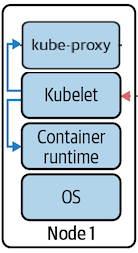
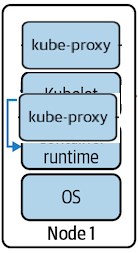
update images

Changed region(s): [[0.029, 0.1383, 0.9565, 0.581], [0.9855, 0.3597, 1.0, 0.3874], [0.1449, 0.3043, 0.1739, 0.332]]

diff --git a/docs/index.html b/docs/index.html
@@ -47,7 +47,7 @@
 <p><img src="/k8s-networking/images/data_flow.png" alt=""></p>
 </section><section>
 <h2 id="kubernetes-node">Kubernetes Node</h2>
-<p><img src="/k8s-networking/images/data_flow_single_node.png" alt=""></p>
+<p><img src="/k8s-networking/images/networking-node.png" alt=""></p>
 
 
 
@@ -57,28 +57,52 @@
 <h3 id="container-network-interface">Container Network Interface</h3>
 <p><img src="/k8s-networking/images/cni.png" alt=""></p>
 <p><a href="https://github.com/containernetworking/cni">https://github.com/containernetworking/cni</a></p>
+
+
+
+<aside class="notes"><p>1 .When the container runtime expects to perform network operations on a container,
+it (like the kubelet in the case of K8s) calls the CNI plugin with the desired command.
+2. The container runtime also provides related network configuration and container-specific data to the plugin.
+3. The CNI plugin performs the required operations and reports the result.</p>
+</aside>
 </section><section>
 <h1 id="container">Container</h1>
 <p><img src="/k8s-networking/images/node_namespaces_to_container.png" alt=""></p>
 </section><section>
 <h3 id="container-networking">Container Networking</h3>
 <p><img src="/k8s-networking/images/node_network_namespace_container.png" alt=""></p>
-<div class="highlight"><pre tabindex="0" style="color:#f8f8f2;background-color:#272822;-moz-tab-size:4;-o-tab-size:4;tab-size:4"><code class="nohighlight" data-noescape>kubectl apply -f pod.yml
-</code></pre></div><div class="highlight"><pre tabindex="0" style="color:#f8f8f2;background-color:#272822;-moz-tab-size:4;-o-tab-size:4;tab-size:4"><code class="nohighlight" data-noescape>kubectl exec -it bb1 -c bb1 -- curl localhost:80
-</code></pre></div></section><section>
+</section><section>
 <h3 id="pod-to-pod">Pod to Pod</h3>
 <p><img src="/k8s-networking/images/node_namespaces_multi_pod.png" alt=""></p>
-<div class="highlight"><pre tabindex="0" style="color:#f8f8f2;background-color:#272822;-moz-tab-size:4;-o-tab-size:4;tab-size:4"><code class="nohighlight" data-noescape>kubectl get pods -o wide
-</code></pre></div><div class="highlight"><pre tabindex="0" style="color:#f8f8f2;background-color:#272822;-moz-tab-size:4;-o-tab-size:4;tab-size:4"><code class="nohighlight" data-noescape>kubectl exec -it bb1 -c bb1 -- ping <span style="color:#66d9ef">$(</span>kubectl get pods bb3 -o json | jq .status.podIP -r<span style="color:#66d9ef">)</span>
-</code></pre></div></section><section>
+</section><section>
+<h1 id="pod-networking-demo">Pod Networking Demo</h1>
+</section><section>
 <h3 id="kubernetes-dns">Kubernetes DNS</h3>
 <p><img src="/k8s-networking/images/coredns.png" alt=""></p>
+<p><a href="https://coredns.io/">https://coredns.io/</a></p>
 </section><section>
+<h3 id="kubernetes-dns-1">Kubernetes DNS</h3>
+<div class="highlight"><pre tabindex="0" style="color:#f8f8f2;background-color:#272822;-moz-tab-size:4;-o-tab-size:4;tab-size:4"><code class="nohighlight" data-noescape>kubectl exec -it dnsutils -- host -v -t a github.com
+Trying <span style="color:#e6db74">&#34;github.com.default.svc.cluster.local&#34;</span>
+Trying <span style="color:#e6db74">&#34;github.com.svc.cluster.local&#34;</span>
+Trying <span style="color:#e6db74">&#34;github.com.cluster.local&#34;</span>
+Trying <span style="color:#e6db74">&#34;github.com&#34;</span>
+;; -&gt;&gt;HEADER<span style="color:#e6db74">&lt;&lt;- opco</span>de: QUERY, status: NOERROR, id: <span style="color:#ae81ff">9135</span>
+;; flags: qr rd ra; QUERY: 1, ANSWER: 1, AUTHORITY: 0, ADDITIONAL: <span style="color:#ae81ff">0</span>
+
+;; QUESTION SECTION:
+;github.com.                    IN      A
+
+;; ANSWER SECTION:
+github.com.             <span style="color:#ae81ff">30</span>      IN      A       140.82.113.4
+</code></pre></div></section><section>
 <h1 id="services">Services</h1>
 <ul>
 <li>NodePort</li>
 <li>ClusterIP - Default</li>
 <li>LoadBalancer</li>
+<li>ExternalName</li>
+<li>Headless</li>
 </ul>
 
 
@@ -93,8 +117,9 @@ NodePort and ClusterIP Services, to which the external load balancer routes, are
 </section><section>
 <h3 id="service-to-pod">Service to Pod</h3>
 <p><img src="/k8s-networking/images/service.png" alt=""></p>
-<div class="highlight"><pre tabindex="0" style="color:#f8f8f2;background-color:#272822;-moz-tab-size:4;-o-tab-size:4;tab-size:4"><code class="nohighlight" data-noescape>kubectl apply -f service-clusterip.yml
-</code></pre></div></section><section>
+</section><section>
+<h1 id="services-demo">Services Demo</h1>
+</section><section>
 <h1 id="external-to-cluster">External to Cluster</h1>
 <ul>
 <li>Service Type Loadbalancer</li>
@@ -103,8 +128,7 @@ NodePort and ClusterIP Services, to which the external load balancer routes, are
 </section><section>
 <h4 id="service-type-loadbalancer">Service Type LoadBalancer</h4>
 <p><img src="/k8s-networking/images/service_loadbalancer.png" alt=""></p>
-<div class="highlight"><pre tabindex="0" style="color:#f8f8f2;background-color:#272822;-moz-tab-size:4;-o-tab-size:4;tab-size:4"><code class="nohighlight" data-noescape>kubectl apply -f service-loadbalancer.yml
-</code></pre></div></section><section>
+</section><section>
 <h1 id="ingress">Ingress</h1>
 <ul>
 <li>Ingress Controller</li>
@@ -117,8 +141,8 @@ NodePort and ClusterIP Services, to which the external load balancer routes, are
 <li>Google Cloud Loadbalancer</li>
 <li>Contour</li>
 <li>Kong</li>
+<li>Lots more <a href="https://kubernetes.io/docs/concepts/services-networking/ingress-controllers/">https://kubernetes.io/docs/concepts/services-networking/ingress-controllers/</a></li>
 </ul>
-<p>Lots more <a href="https://kubernetes.io/docs/concepts/services-networking/ingress-controllers/">https://kubernetes.io/docs/concepts/services-networking/ingress-controllers/</a></p>
 </section><section>
 <h4 id="ingress-controller-1">Ingress Controller</h4>
 <p><img src="/k8s-networking/images/ingress_cloud.png" alt=""></p>
@@ -139,9 +163,18 @@ NodePort and ClusterIP Services, to which the external load balancer routes, are
                 <span style="color:#f92672">name</span>: <span style="color:#ae81ff">my-service</span>
                 <span style="color:#f92672">port</span>:
                   <span style="color:#f92672">number</span>: <span style="color:#ae81ff">8080</span>
-</code></pre></div><div class="highlight"><pre tabindex="0" style="color:#f8f8f2;background-color:#272822;-moz-tab-size:4;-o-tab-size:4;tab-size:4"><code class="nohighlight" data-noescape>kubectl apply -f ingress.yml
 </code></pre></div></section><section>
-<h1 id="troubleshooting">Troubleshooting</h1>
+<h1 id="loadbalancer-and-ingress-demo">Loadbalancer and Ingress Demo</h1>
+</section><section>
+<h3 id="troubleshooting">Troubleshooting</h3>
+<p><img src="/k8s-networking/images/4c.png" alt=""></p>
+<ul>
+<li><a href="https://hub.docker.com/r/nicolaka/netshoot">NetShoot image</a></li>
+<li>Remove label from service endpoint</li>
+<li>Check Ports match</li>
+<li>Check Probes</li>
+<li><a href="https://kubernetes.io/docs/concepts/security/overview/">CCCC check</a></li>
+</ul>
 </section><section>
 <h3 id="network-policy">Network Policy</h3>
 <div class="highlight"><pre tabindex="0" style="color:#f8f8f2;background-color:#272822;-moz-tab-size:4;-o-tab-size:4;tab-size:4"><code class="nohighlight" data-noescape><span style="color:#f92672">apiVersion</span>: <span style="color:#ae81ff">networking.k8s.io/v1</span>
@@ -168,11 +201,8 @@ NodePort and ClusterIP Services, to which the external load balancer routes, are
 <ul>
 <li><a href="https://github.com/nleiva/kubernetes-networking-links">Kubernetes Networking Links</a></li>
 <li><a href="https://kubernetes.io/docs/tasks/access-application-cluster/">Kubernetes Services Tutorials</a></li>
-<li><a href="https://kubernetes.io/docs/concepts/configuration/overview/#services">K8s Services</a>
-<ul>
+<li><a href="https://kubernetes.io/docs/concepts/configuration/overview/#services">K8s Services</a></li>
 <li><a href="https://kubernetes.io/docs/tasks/access-application-cluster/create-external-load-balancer/">K8s Loadbalancer</a></li>
-</ul>
-</li>
 <li><a href="https://kubernetes.io/docs/tasks/access-application-cluster/create-external-load-balancer/#external-load-balancer-providers">External Load balancers</a></li>
 <li><a href="https://kubernetes.io/docs/concepts/services-networking/ingress/">Ingress</a></li>
 </ul>
